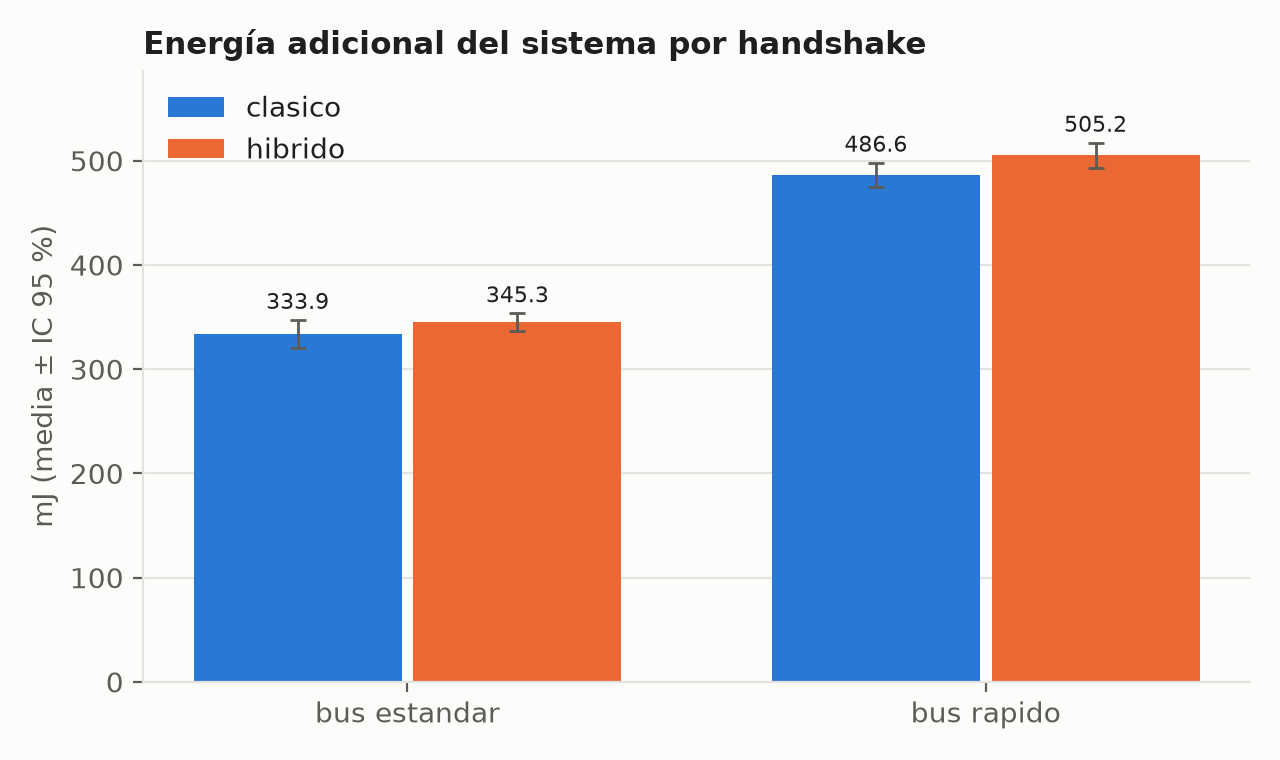
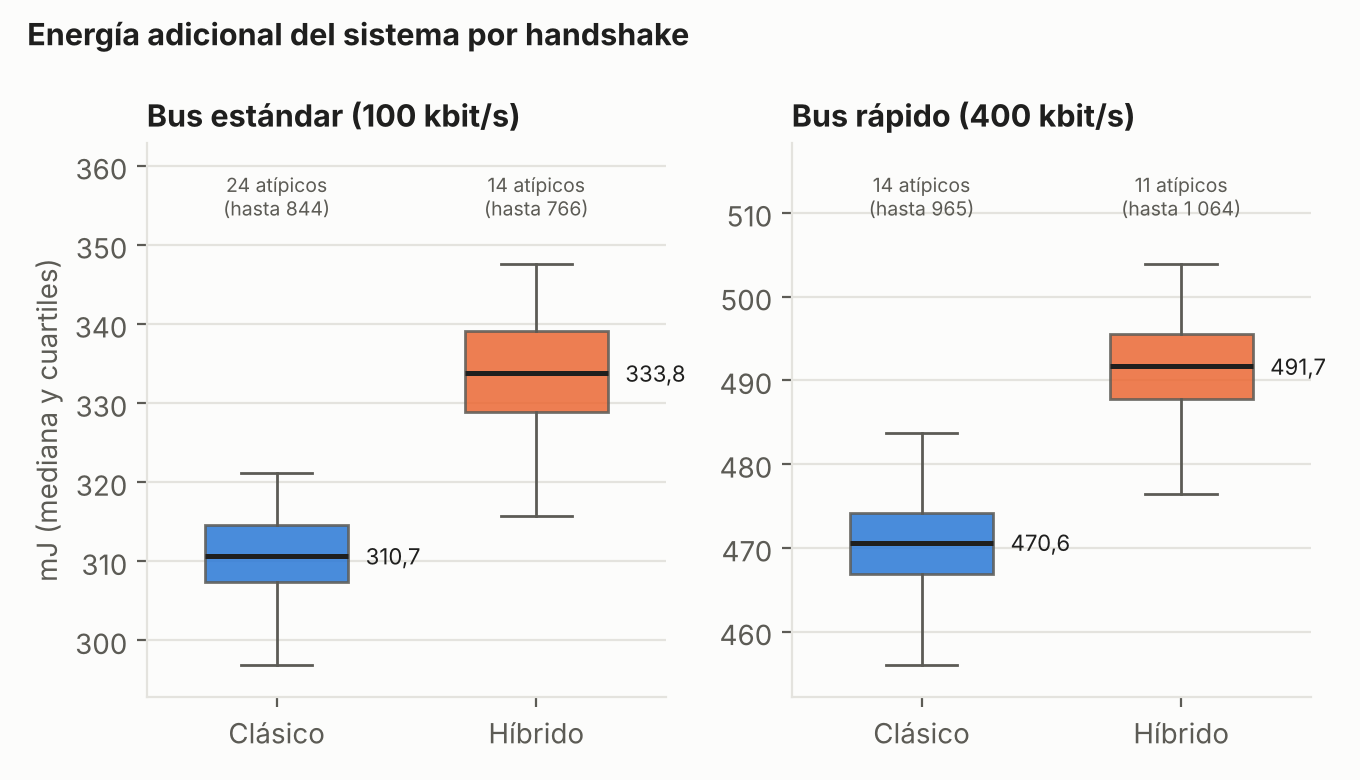
Semana 11 cerrada: figuras para la tesis, evidencias ordenadas y README del conjunto de datos
- analisis.py: rótulos con tildes y nombres completos, coma decimal, leyendas sin tapar barras,
  ejes de latencia en 32/128/512 y energía como diagrama de caja (mediana) por bus.
- Evidencias de la semana 11 en docs/evidencias/semana11_analisis/.
- data/README_dataset.md para el paquete de datos de la semana 12.

Claude-Session: https://claude.ai/code/session_01UTpTNmtnLhAxcw82PwcKUF

diff --git a/pi/analisis.py b/pi/analisis.py
@@ -170,6 +170,15 @@ def _estilo(ax, titulo, ylabel):
     ax.tick_params(colors=TXT2)
 
 
+NOM_G = {"clasico": "Clásico (X25519)", "hibrido": "Híbrido (X25519MLKEM768)"}
+NOM_B = {"estandar": "Bus estándar\n(100 kbit/s)", "rapido": "Bus rápido\n(400 kbit/s)"}
+
+
+def _num(v, dec=1):
+    """Número con coma decimal (formato en español)."""
+    return f"{v:,.{dec}f}".replace(",", " ").replace(".", ",")
+
+
 def figuras(df, resumen):
     import matplotlib
     matplotlib.use("Agg")
@@ -178,33 +187,55 @@ def figuras(df, resumen):
     bloques = sorted(df.bloque.unique())
     grupos = [g for g in ("clasico", "hibrido") if g in df.grupo.unique()]
 
-    def barras_ic(metrica, titulo, ylabel, archivo, escala=1.0):
+    def barras_ic(metrica, titulo, ylabel, archivo, escala=1.0, dec=1):
         fig, ax = plt.subplots(figsize=(6.4, 3.8), facecolor=FONDO)
         x = np.arange(len(bloques)); w = 0.36
         for i, gr in enumerate(grupos):
             r = resumen[(resumen.metrica == metrica) & (resumen.grupo == gr)].set_index("bloque").reindex(bloques)
             m = r.media.to_numpy() * escala
             err = np.vstack([m - r.ic95_inf.to_numpy() * escala, r.ic95_sup.to_numpy() * escala - m])
-            ax.bar(x + (i - 0.5) * (w + 0.02), m, w, color=COL[gr], label=gr, yerr=err,
+            ax.bar(x + (i - 0.5) * (w + 0.02), m, w, color=COL[gr], label=NOM_G[gr], yerr=err,
                    error_kw={"ecolor": TXT2, "elinewidth": 1, "capsize": 3})
             tope = np.fmax(m, r.ic95_sup.to_numpy() * escala)        # etiqueta sobre la barra de error
             for xi, mi, ti in zip(x + (i - 0.5) * (w + 0.02), m, tope):
                 if not np.isnan(mi):
-                    ax.annotate(f"{mi:.1f}", (xi, ti), textcoords="offset points", xytext=(0, 4),
+                    ax.annotate(_num(mi, dec), (xi, ti), textcoords="offset points", xytext=(0, 4),
                                 ha="center", fontsize=8, color=TXT)
-        ax.set_xticks(x, [f"bus {b}" for b in bloques])
-        ax.set_ylim(top=ax.get_ylim()[1] * 1.08)
-        _estilo(ax, titulo, ylabel); ax.legend(frameon=False, labelcolor=TXT)
+        ax.set_xticks(x, [NOM_B.get(b, b) for b in bloques])
+        ax.set_ylim(top=ax.get_ylim()[1] * 1.28)
+        _estilo(ax, titulo, ylabel); ax.legend(frameon=False, labelcolor=TXT, loc="upper left", ncol=2, fontsize=8)
         fig.tight_layout(); fig.savefig(os.path.join(FIG, archivo), dpi=200); plt.close(fig)
 
     barras_ic("esp_t_hs_us", "Duración del handshake (medida en el nodo)", "ms (media ± IC 95 %)", "fig1_tiempo_handshake.png", 1e-3)
-    barras_ic("energia_hs_mJ", "Energía adicional del sistema por handshake", "mJ (media ± IC 95 %)", "fig2_energia_handshake.png")
+    # Energía: distribución no normal con atípicos -> diagrama de caja con la mediana, un panel por bus
+    from matplotlib.patches import Patch
+    fig, axs = plt.subplots(1, len(bloques), figsize=(6.8, 3.9), facecolor=FONDO)
+    axs = np.atleast_1d(axs)
+    for ax, b in zip(axs, bloques):
+        datos = [df[(df.bloque == b) & (df.grupo == gr)].energia_hs_mJ.dropna().to_numpy() for gr in grupos]
+        bp = ax.boxplot(datos, positions=range(len(grupos)), widths=0.55, patch_artist=True, showfliers=False,
+                        medianprops={"color": TXT, "linewidth": 1.8}, whiskerprops={"color": TXT2}, capprops={"color": TXT2})
+        for caja, gr in zip(bp["boxes"], grupos):
+            caja.set_facecolor(COL[gr]); caja.set_alpha(0.85); caja.set_edgecolor(TXT2)
+        tope = max(w.get_ydata().max() for w in bp["whiskers"]); piso = min(w.get_ydata().min() for w in bp["whiskers"])
+        rango = tope - piso
+        ax.set_ylim(piso - 0.08 * rango, tope + 0.30 * rango)
+        for k, d in enumerate(datos):
+            q1, q3 = np.percentile(d, [25, 75]); n_at = int((d > q3 + 1.5 * (q3 - q1)).sum())
+            ax.annotate(_num(np.median(d)), (k + 0.3, np.median(d)), xytext=(4, -3), textcoords="offset points",
+                        fontsize=8, color=TXT)
+            ax.annotate(f"{n_at} atípicos\n(hasta {_num(d.max(), 0)})", (k, tope + 0.12 * rango), ha="center", fontsize=7, color=TXT2)
+        ax.set_xticks(range(len(grupos)), ["Clásico" if g == "clasico" else "Híbrido" for g in grupos])
+        _estilo(ax, NOM_B.get(b, b).replace(chr(10), " "), "mJ (mediana y cuartiles)" if ax is axs[0] else "")
+        ax.title.set_fontsize(9.5)
+    fig.suptitle("Energía adicional del sistema por handshake", x=0.02, ha="left", fontsize=11, fontweight="bold", color=TXT)
+    fig.tight_layout(); fig.savefig(os.path.join(FIG, "fig2_energia_handshake.png"), dpi=200); plt.close(fig)
     barras_ic("rend_util_kbps", "Rendimiento útil del flujo cifrado", "kbit/s (media ± IC 95 %)", "fig3_rendimiento.png")
-    barras_ic("bytes_clienthello", "Tamaño del ClientHello", "bytes", "fig4_bytes_clienthello.png")
+    barras_ic("bytes_clienthello", "Tamaño del ClientHello", "bytes", "fig4_bytes_clienthello.png", dec=0)
 
     # Etapas del handshake (barras apiladas) por bloque y grupo
     et = ["etapa1_clienthello_y_proceso_srv_us", "etapa2_envio_vuelo_srv_us", "etapa3_proceso_cliente_y_finished_us"]
-    nombres = ["ClientHello + proceso servidor", "envío vuelo del servidor", "proceso cliente + Finished"]
+    nombres = ["ClientHello + proceso del servidor", "envío de la respuesta del servidor", "proceso del cliente + Finished"]
     fig, ax = plt.subplots(figsize=(6.8, 3.8), facecolor=FONDO)
     etiquetas, base = [], None
     combos = [(b, g) for b in bloques for g in grupos]
@@ -215,7 +246,7 @@ def figuras(df, resumen):
         ax.bar(range(len(combos)), vals, 0.6, bottom=acum, color=ETAPAS_COL[j], label=nom,
                edgecolor=FONDO, linewidth=2)
         acum += np.nan_to_num(vals)
-    ax.set_xticks(range(len(combos)), [f"{g}\nbus {b}" for b, g in combos])
+    ax.set_xticks(range(len(combos)), [f"{'Clásico' if g == 'clasico' else 'Híbrido'}\n{NOM_B.get(b, b).split(chr(10))[0].replace('Bus ', 'bus ')}" for b, g in combos])
     _estilo(ax, "Etapas del handshake (medidas en el servidor)", "ms (media)")
     ax.legend(frameon=False, fontsize=8, labelcolor=TXT, loc="upper left")
     fig.tight_layout(); fig.savefig(os.path.join(FIG, "fig5_etapas_handshake.png"), dpi=200); plt.close(fig)
@@ -227,10 +258,10 @@ def figuras(df, resumen):
             r = resumen[(resumen.metrica == "esp_rtt_media_us") & (resumen.bloque == b) & (resumen.grupo == gr)]
             r = r.sort_values("msg_bytes")
             ax.errorbar(r.msg_bytes.astype(int), r.media / 1e3, yerr=[(r.media - r.ic95_inf) / 1e3, (r.ic95_sup - r.media) / 1e3],
-                        color=COL[gr], linewidth=2, marker="o", markersize=7, capsize=3, label=gr)
-        ax.set_xscale("log", base=2)
+                        color=COL[gr], linewidth=2, marker="o", markersize=7, capsize=3, label=NOM_G[gr])
+        ax.set_xscale("log", base=2); ax.set_xticks([32, 128, 512], ["32", "128", "512"]); ax.minorticks_off()
         ax.set_xlabel("tamaño del mensaje (bytes)", color=TXT2)
-        _estilo(ax, f"Latencia ida y vuelta de un mensaje (bus {b})", "ms (media ± IC 95 %)")
+        _estilo(ax, f"Latencia ida y vuelta de un mensaje ({NOM_B.get(b, b).replace(chr(10), ' ').lower()})", "ms (media ± IC 95 %)")
         ax.legend(frameon=False, labelcolor=TXT)
         fig.tight_layout(); fig.savefig(os.path.join(FIG, f"fig6_latencia_{b}.png"), dpi=200); plt.close(fig)
 

diff --git a/data/README_dataset.md b/data/README_dataset.md
@@ -1,0 +1,48 @@
+# Conjunto de datos: TLS 1.3 híbrido poscuántico sobre I2C
+
+**Título:** Mediciones de tiempo, tráfico, memoria y energía del establecimiento de sesiones TLS 1.3 con intercambio de claves clásico (X25519) e híbrido (X25519MLKEM768) sobre un bus I2C entre un ESP32 y una Raspberry Pi 4.
+**Autores:** David Yela, Kevin Pérez — Escuela Superior Politécnica del Litoral (ESPOL), Materia Integradora de Telecomunicaciones.
+**Tutora:** María Antonieta Álvarez Villanueva.
+**Fecha de la campaña:** 27/10/2026 (bloque rápido) y 29/10/2026 (bloque estándar).
+**Licencia de los datos:** CC BY 4.0 (https://creativecommons.org/licenses/by/4.0/).
+
+## Montaje
+- Nodo sensor: ESP32 (cliente TLS 1.3, esclavo I2C 0x28), alimentado por USB desde la Raspberry Pi.
+- Unidad de borde: Raspberry Pi 4 (servidor TLS 1.3, maestro del bus 3: GPIO4/GPIO5, pull-ups de 4,7 kΩ a 3,3 V).
+- Línea READY: GPIO4 del ESP32 → GPIO17 de la Raspberry Pi.
+- Enlace: capa propia sobre I2C con tramas de 128 bytes (cabecera 6, carga útil ≤ 120, CRC-16/CCITT 2), ACK y retransmisión de parada y espera.
+- Energía: INA219 (bus 1, 0x40, ADC de 12 bits) en serie con la alimentación de 5 V de todo el sistema; la energía es del sistema completo.
+
+## Versiones
+| Componente | Versión |
+|---|---|
+| OpenSSL (Raspberry Pi) | 3.5.7 (9 Jun 2026), grupos configurados con `pi/conf/openssl_grupos.cnf` |
+| Python | 3.13.5 |
+| wolfSSL (ESP32) | 5.9.4 |
+| ESP-IDF | 5.5.5 |
+| Firmware de la campaña | commit `3e0e0bf` |
+| Código de medición | commit registrado en el campo `git` de cada `*_meta.json` |
+
+## Diseño experimental
+- Dos bloques: estándar (100 kbit/s) y rápido (400 kbit/s); orden de bloques y de corridas aleatorio (semilla 42).
+- En cada bloque: 2 grupos (clásico, híbrido) × 3 tamaños de mensaje (32, 128 y 512 bytes) × 60 repeticiones = 360 corridas.
+- Cada corrida: handshake, 10 mensajes de telemetría con eco cifrado y un bloque de 4 KiB para el rendimiento; 60 s de reposo al inicio y al final de cada bloque.
+
+## Archivos
+| Archivo | Contenido |
+|---|---|
+| `raw/campana_<bloque>_<fecha>_meta.json` | Configuración del bloque, versiones, ventanas de reposo y estado de la Raspberry Pi |
+| `raw/campana_<bloque>_<fecha>_corridas.jsonl` | Una línea por corrida con las métricas del ESP32, del servidor y del enlace |
+| `raw/campana_<bloque>_<fecha>_potencia.csv.gz` | Potencia continua: `t_ns`, `v_V`, `i_mA`, `p_mW` |
+| `processed/corridas_con_energia.csv` | Cada corrida con su energía del handshake y la marca `valida` |
+| `processed/resumen.csv` | n, media, desviación, IC 95 %, mediana y CV por bloque, grupo y tamaño |
+| `processed/comparaciones.csv` | Híbrido vs. clásico: sobrecosto %, IC 95 % bootstrap, p de Welch, Mann-Whitney y Shapiro |
+| `processed/reposo_por_bloque.csv` | Potencia de reposo, deriva y muestras por segundo de cada bloque |
+
+El significado y las unidades de cada campo están en `docs/diccionario_datos.md`. Las corridas descartadas (arranques abortados, repeticiones y el bloque con un registrador duplicado) están en `pruebas/semana10_campana/`, con su justificación en `docs/decisiones.md`.
+
+## Cómo reproducir el análisis
+```bash
+cd pi && pip install -r ../requirements.txt
+python3 analisis.py ../data/raw/campana_estandar_*_meta.json ../data/raw/campana_rapido_*_meta.json
+```
